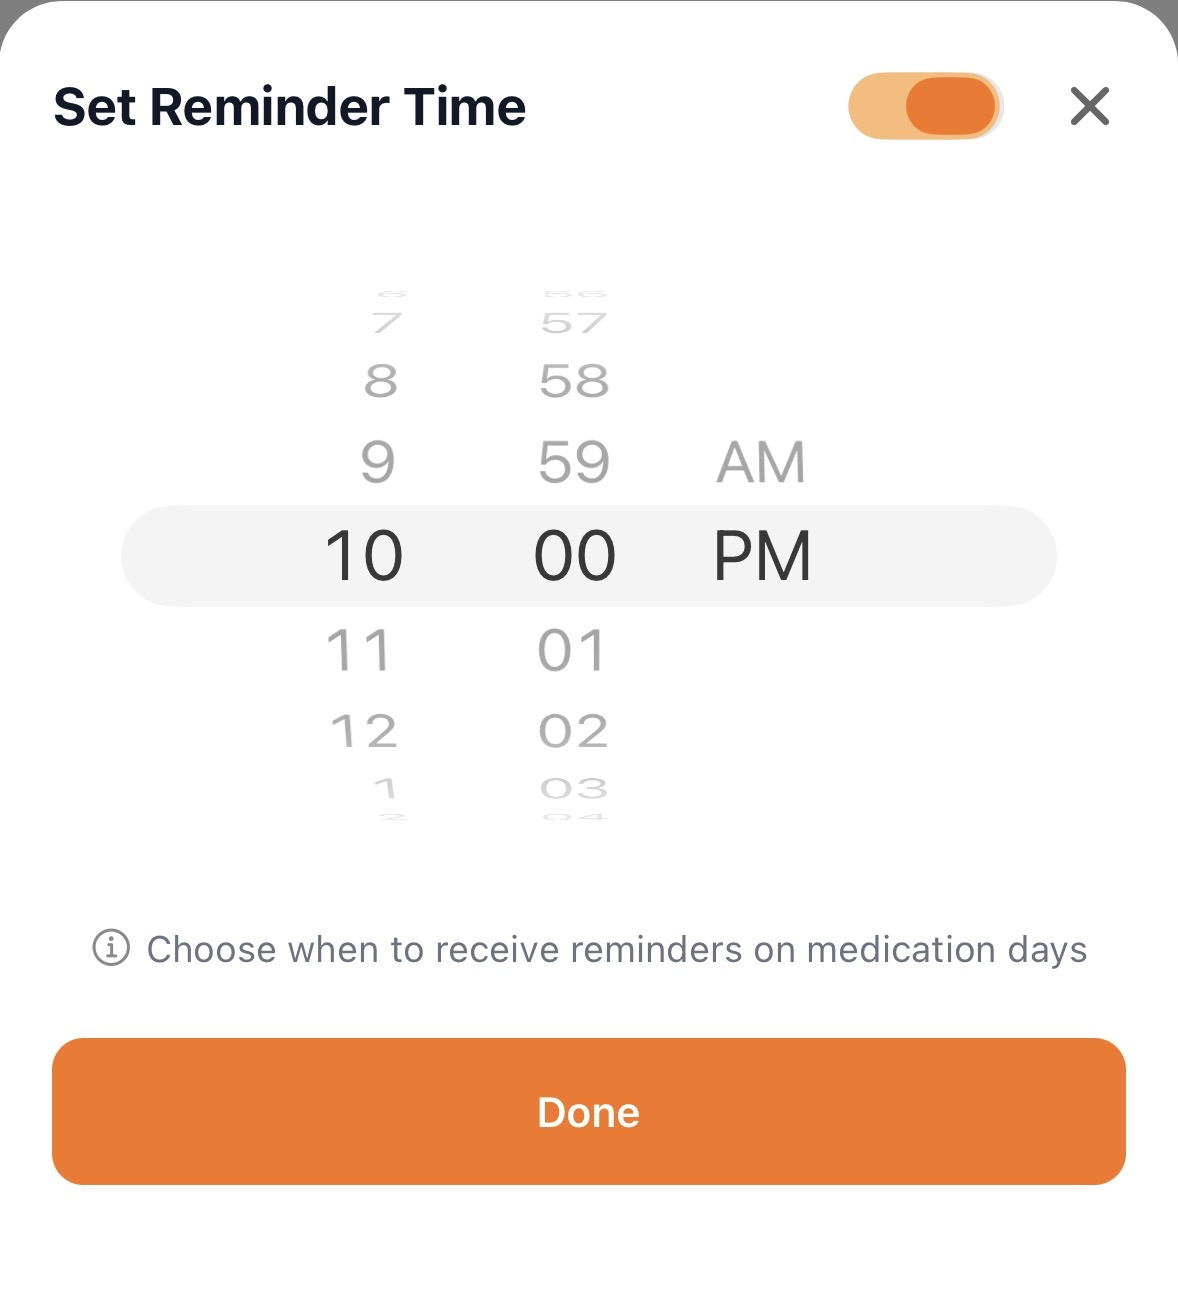
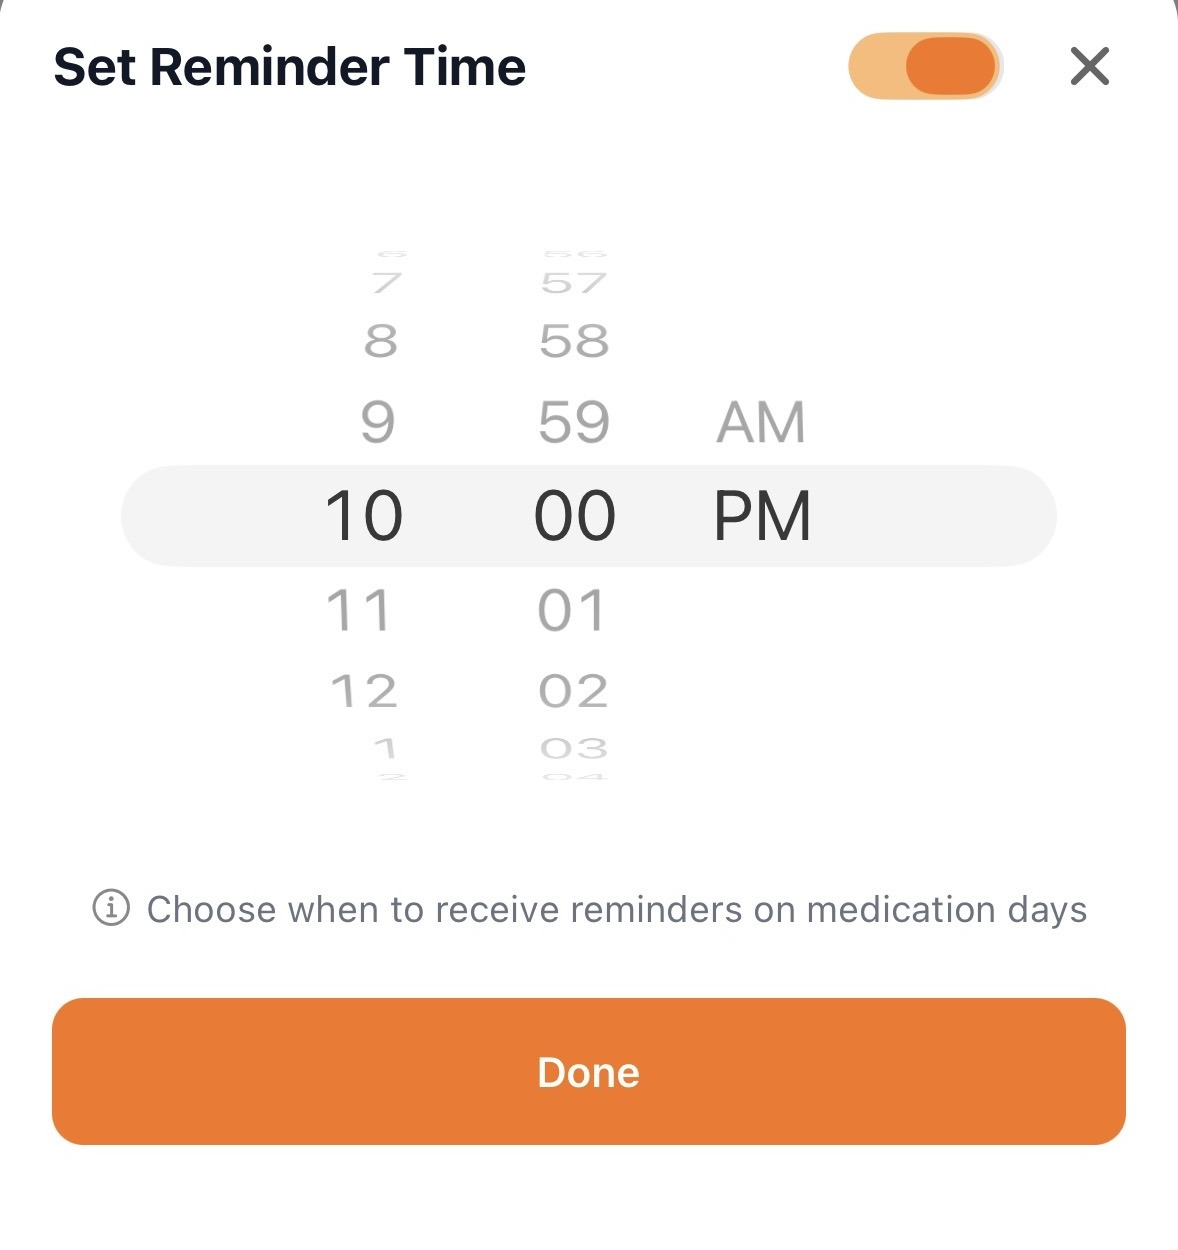
Fix feature screenshot crops
Trims the modal dim background visible behind the reminder sheet's
rounded corners, and raises the dose chart crop so the Dosage/Skin
toggle is no longer clipped.

diff --git a/app/page.tsx b/app/page.tsx
@@ -49,7 +49,7 @@ const FEATURE_STORIES = [
     imageSrc: "/features/dose-tracking.jpg",
     imageAlt:
       "IsoLog cumulative dose tracking screen with total dosage and treatment summary",
-    imagePosition: "center 10%",
+    imagePosition: "center 2%",
   },
 ];
 
